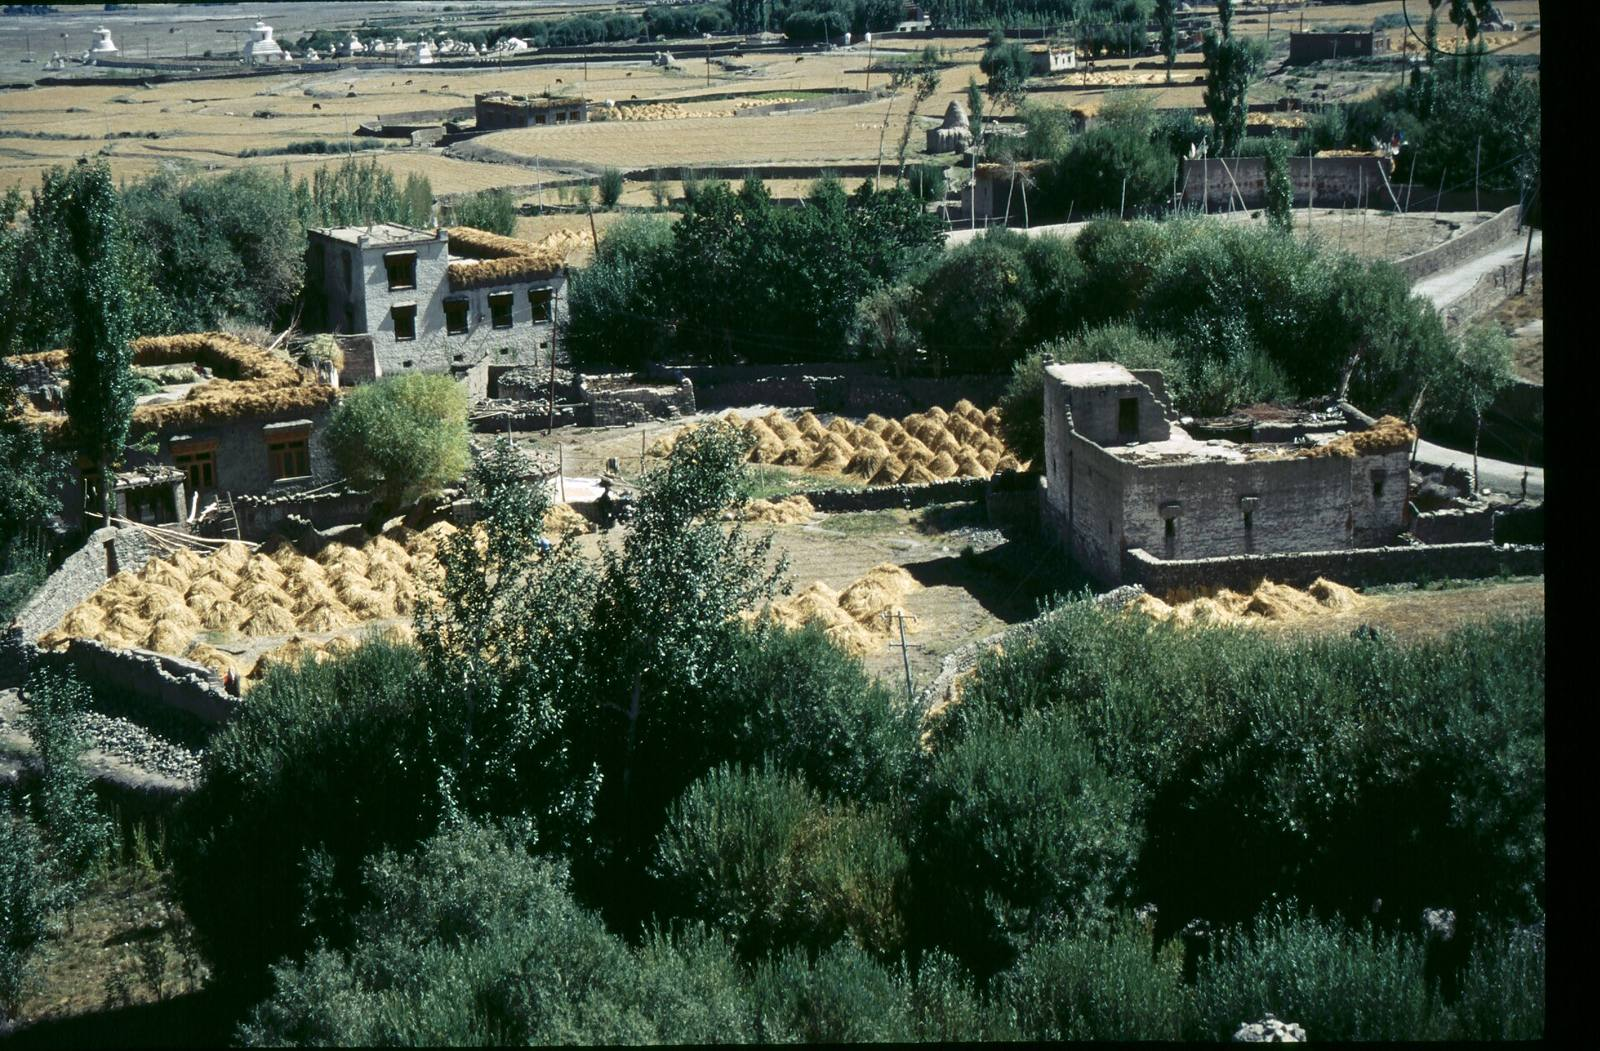
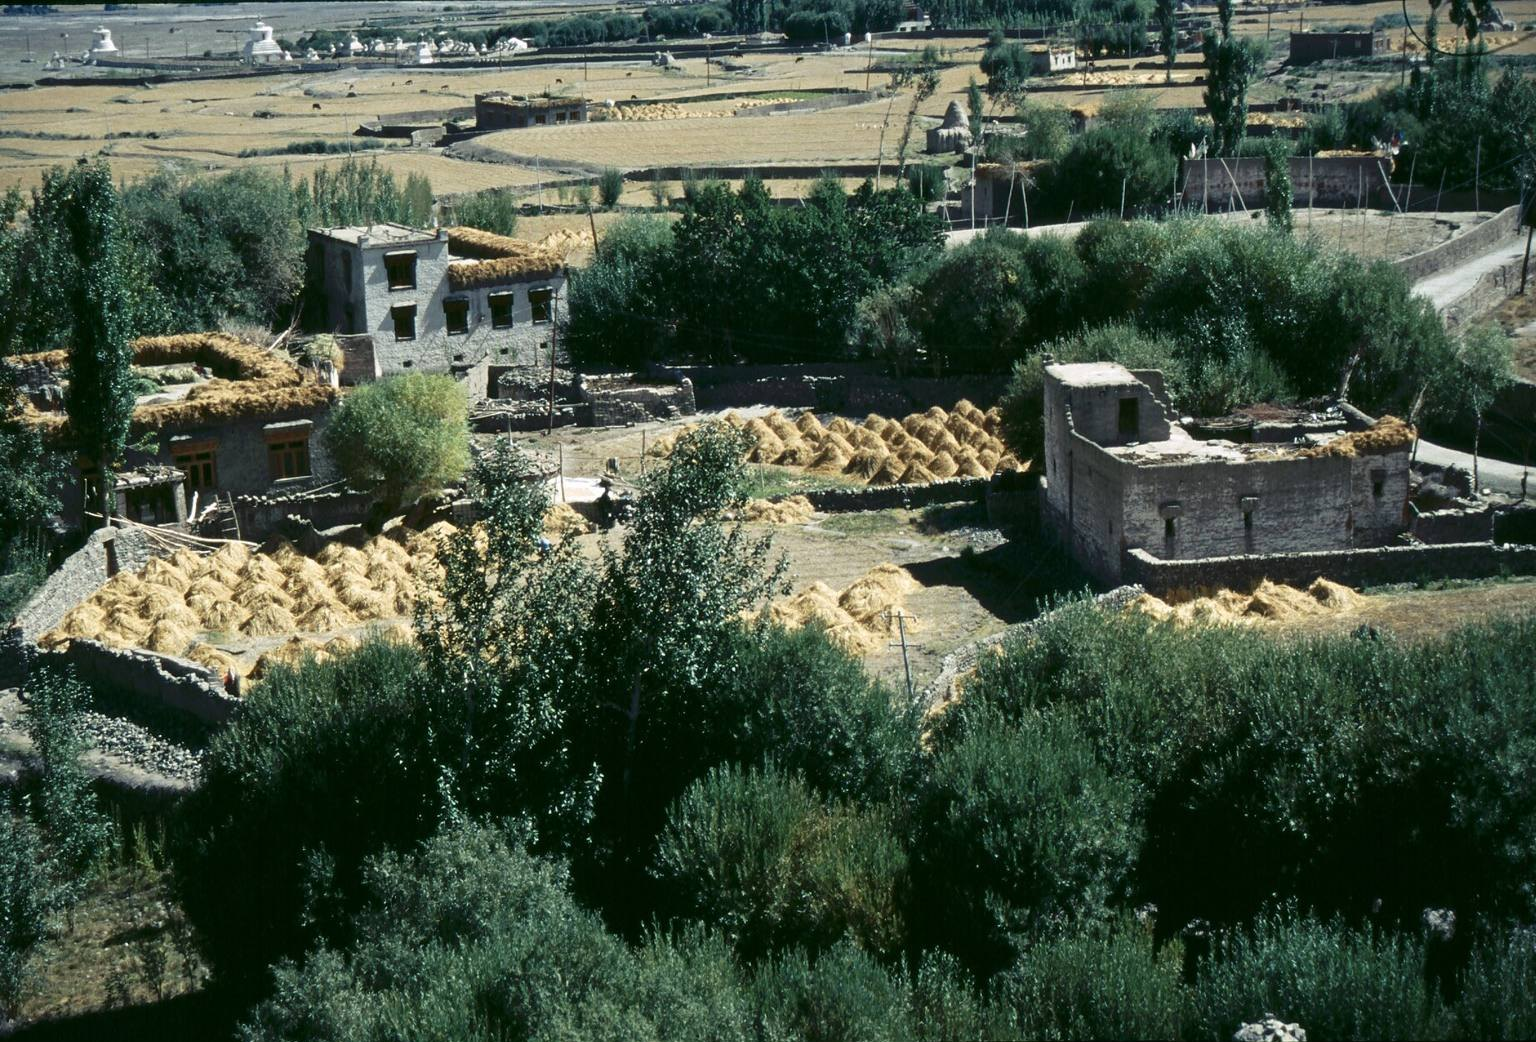
fix(playground): About page header overlap and hero layouts
- Index page design: the section strip now follows the hero, so it no longer sits under the floating header.
- Ledger hero: starts below a floating header, so the menu is not drawn over the photograph.
- Courtyard hero: the second photograph no longer covers the intro text.
- harvest-village.jpg: cropped the black film-scan edge.

diff --git a/apps/playground/src/lib/site/blocks/Hero.svelte b/apps/playground/src/lib/site/blocks/Hero.svelte
@@ -100,7 +100,7 @@
 			grid-row: 1;
 		}
 		.a :global(.small-pic) {
-			grid-column: 4 / 7;
+			grid-column: 5 / 8;
 			grid-row: 2;
 			width: 100%;
 			margin: calc(var(--s-7) * -1.4) 0 0;
@@ -170,14 +170,16 @@
 	}
 
 	/* ----- C: Ledger ----- */
+	/* A floating header (design C) sits above the whole section, so neither column runs under it. */
 	.c {
 		display: grid;
+		padding-top: var(--hdr-over);
 	}
 	.c .text {
 		display: grid;
 		gap: var(--s-5);
 		align-content: center;
-		padding: calc(var(--hdr-over) + var(--s-6)) var(--gutter) var(--s-6);
+		padding: var(--s-6) var(--gutter);
 		background: var(--surface);
 		order: 2;
 	}
@@ -219,12 +221,11 @@
 		}
 		.c .photo {
 			order: 2;
-			height: auto;
-			min-height: 100svh;
+			min-height: calc(100svh - var(--hdr-over));
 			position: sticky;
 			top: 0;
 			align-self: start;
-			height: 100svh;
+			height: calc(100svh - var(--hdr-over));
 		}
 	}
 </style>

diff --git a/apps/playground/src/lib/site/pages/PageFrame.svelte b/apps/playground/src/lib/site/pages/PageFrame.svelte
@@ -52,7 +52,12 @@
 		</div>
 	</Section>
 {:else if design === 'c'}
-	{#if !opensWithHero}<PageHead title={page.title} />{/if}
+	<!-- The strip goes after the page's opening (title or hero), so it never sits under a floating header. -->
+	{#if opensWithHero}
+		<div id={`s-${blocks[0]!.id}`} class="anchor"><RenderBlocks blocks={[blocks[0]!]} {design} {extras} /></div>
+	{:else}
+		<PageHead title={page.title} />
+	{/if}
 	{#if sections.length > 1}
 		<div class="c-index">
 			<nav class="container" aria-label="On this page">
@@ -62,7 +67,7 @@
 			</nav>
 		</div>
 	{/if}
-	{#each blocks as b (b.id)}
+	{#each opensWithHero ? blocks.slice(1) : blocks as b (b.id)}
 		<div id={`s-${b.id}`} class="anchor"><RenderBlocks blocks={[b]} {design} {extras} /></div>
 	{/each}
 {:else}
